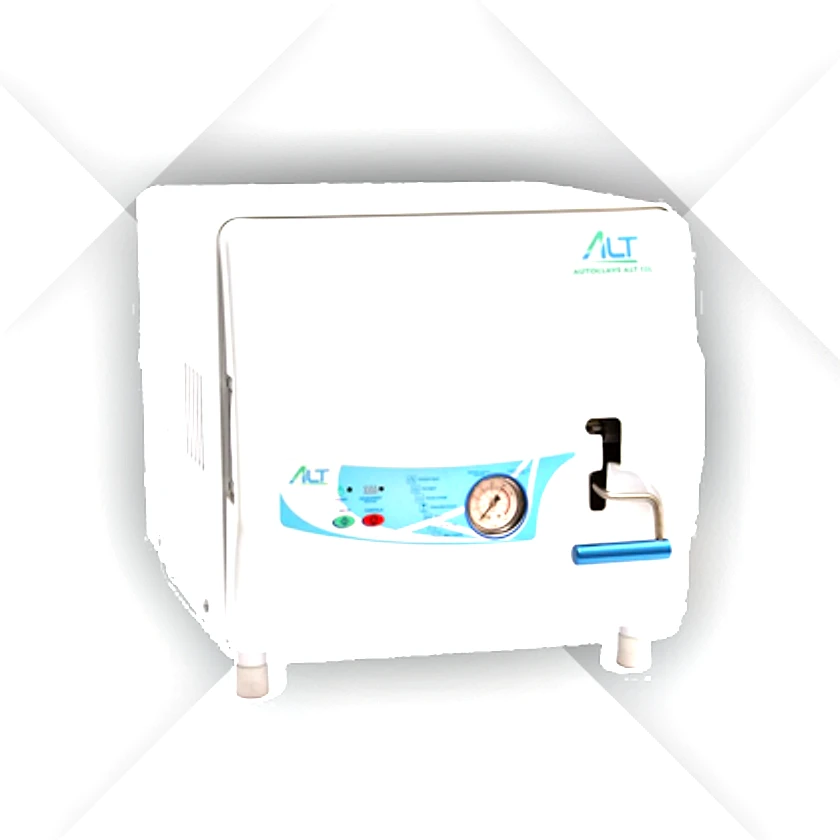
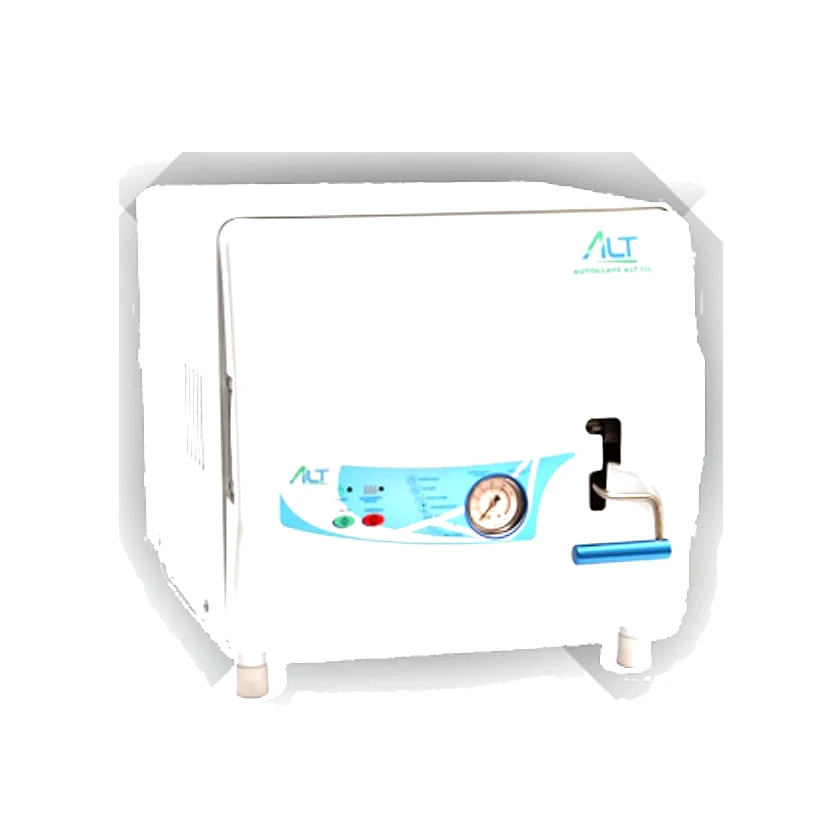
Limpa o recorte das fotos e refaz a moldura da galeria
AS FOTOS

As cinco fotos de demonstração carregavam um halo diagonal de recorte — um "X"
de cinza claro atrás do equipamento, sobra de uma remoção de fundo malfeita. No
arquivo ele quase não existe (luminância 205–253 num fundo 255), mas a moldura
o acendia: o palco tinha um degradê radial por trás, e qualquer coisa que não
fosse branco puro virava um vinco visível em volta da peça.

`scripts/limpar-fotos-demo.mjs` apaga o halo sem encostar no equipamento.
Inundar a partir da borda não serve — o corpo destes aparelhos é branco e se
liga ao fundo por pixels claros, então o preenchimento vaza para dentro da peça
e a achata (testado: vazou nas cinco). O caminho que funciona é o inverso:
marcar o traço forte (luminância < 205), engordá-lo 26px por distância de
chamfer para fechar os vãos do contorno, inundar o COMPLEMENTO a partir da
borda e branquear tudo que a inundação alcançou. Sobra a peça e a sombra de
contato colada nela.

Conferido pelo próprio otimizador do Next (`/_next/image`): o fundo volta em
254+ em toda a moldura. Os arquivos ficaram menores mesmo com qualidade 92 —
fundo limpo comprime melhor que fundo com ruído.

A MOLDURA

O palco trocou o degradê radial (branco → cinza no raio) por um degradê
vertical curto que só assenta a base. O radial existia para dar volume; na
prática ele iluminava justamente o que a foto tem de imperfeito.

E as miniaturas passaram a ficar EM PÉ, à esquerda, no desktop — a coluna do
[…]

diff --git a/src/components/loja/galeria-produto.tsx b/src/components/loja/galeria-produto.tsx
@@ -155,18 +155,28 @@ export function GaleriaProduto({
   const foto = fotos[atual];
 
   return (
-    <div>
-      <div className="relative overflow-hidden rounded-xl border border-graf-200 bg-white shadow-card">
+    /* Trilha de miniaturas à esquerda no desktop, embaixo no celular.
+
+       `flex-row-reverse` mantém o palco em PRIMEIRO no DOM — quem lê por
+       teclado ou leitor de tela chega à foto principal antes da tira de
+       miniaturas, que é uma lista de atalhos para ela. No celular a tira volta
+       para baixo, onde o polegar alcança. */
+    <div className="flex flex-col gap-4 lg:flex-row-reverse lg:items-start lg:gap-4">
+      <div className="relative min-w-0 flex-1 overflow-hidden rounded-2xl border border-graf-200 bg-white shadow-card">
         <div
           className="relative aspect-square"
           onTouchStart={aoEncostar}
           onTouchEnd={aoSoltar}
-          /* Halo discreto por trás da peça, para o recorte não flutuar num
-             branco chapado. Estilo em atributo porque é um valor único desta
-             tela — o CSP do projeto libera `style` do React de propósito. */
+          /* Fundo quase branco, com o cinza só na base.
+
+             Antes era um degradê radial de branco ao cinza-claro. A intenção
+             era dar volume, mas equipamento odontológico é fotografado
+             recortado em branco — e o campo radial acendia cada resíduo de
+             recorte da foto como um halo em volta da peça. Um degradê vertical
+             curtíssimo faz o mesmo trabalho de assentar a peça sem revelar o
+             que a foto tem de imperfeito. */
           style={{
-            background:
-              "radial-gradient(circle at 50% 38%, #ffffff 0%, var(--color-graf-100) 100%)",
+            background: "linear-gradient(180deg, #ffffff 0%, #ffffff 62%, var(--color-graf-50) 100%)",
           }}
         >
           <Image
@@ -174,10 +184,10 @@ export function GaleriaProduto({
             alt={foto.alt || nome}
             fill
             priority
-            /* No desktop a galeria ocupa 7 das 12 colunas do container de
-               1440px — cerca de 58vw. Pedir menos entregaria imagem borrada
-               justamente na peça que a pessoa está avaliando. */
-            sizes="(max-width: 1023px) 100vw, 58vw"
+            /* No desktop a galeria ocupa 7 das 12 colunas do container, menos
+               a coluna de miniaturas — cerca de 54vw. Pedir menos entregaria
+               imagem borrada justamente na peça que a pessoa está avaliando. */
+            sizes="(max-width: 1023px) 100vw, 54vw"
             /* Respiro curto de propósito: a foto é o argumento da página, e
                cada pixel de moldura sai do equipamento. */
             className="object-contain p-4 sm:p-6 lg:p-8"
@@ -233,10 +243,15 @@ export function GaleriaProduto({
       {total > 1 ? (
         <ul
           aria-label={`Imagens de ${nome}`}
-          className="scrollbar-none mt-4 flex snap-x snap-mandatory gap-2.5 overflow-x-auto pb-1"
+          className={cn(
+            "scrollbar-none flex snap-x snap-mandatory gap-2.5 overflow-x-auto pb-1",
+            "lg:w-[4.75rem] lg:shrink-0 lg:snap-none lg:flex-col lg:overflow-x-visible lg:overflow-y-auto lg:pb-0",
+            // teto na coluna para uma dúzia de fotos não esticar a página
+            "lg:max-h-[34rem]",
+          )}
         >
           {fotos.map((imagem, indice) => (
-            <li key={`${imagem.url}-${indice}`} className="shrink-0 snap-start">
+            <li key={`${imagem.url}-${indice}`} className="shrink-0 snap-start lg:w-full">
               <button
                 type="button"
                 onClick={() => setAtual(indice)}
@@ -244,6 +259,7 @@ export function GaleriaProduto({
                 aria-current={indice === atual ? "true" : undefined}
                 className={cn(
                   "foco-jb relative block size-16 overflow-hidden rounded-lg border bg-white transition-colors duration-150 sm:size-18",
+                  "lg:aspect-square lg:size-auto lg:w-full",
                   indice === atual
                     ? "border-jb-500 ring-1 ring-inset ring-jb-500"
                     : "border-graf-200 hover:border-graf-400",

diff --git a/public/images/CREDITOS.md b/public/images/CREDITOS.md
@@ -1,0 +1,36 @@
+# Origem das imagens
+
+Este arquivo existe para que ninguém precise adivinhar de onde veio uma foto —
+nem para trocá-la, nem para responder a quem perguntar.
+
+## Fotografia de ambiente
+
+| Arquivo | Origem | Licença |
+|---|---|---|
+| `hero/ambiente-clinica.webp` | Unsplash — foto `e7MJLM5VGjY`, de Benyamin Bohlouli (<https://unsplash.com/photos/e7MJLM5VGjY>) | [Unsplash License](https://unsplash.com/license) — uso comercial liberado, sem exigência de atribuição |
+
+Recorte em retrato (640×1600), dessaturada e clareada para conviver com o
+vermelho da marca. Ela aparece atrás do hero a 34% de opacidade e desfocada: é
+textura de fundo, **não** é foto da estrutura da JB. As fotos reais da empresa
+ficam em /estrutura e vêm do painel.
+
+## O que NÃO pode virar banco de imagens
+
+**Foto de produto.** A imagem de um equipamento à venda tem de ser daquele
+equipamento. Trocar a foto de uma autoclave ALT 12L pela de outra autoclave
+qualquer faz a página anunciar coisa diferente da que será entregue — e oferta
+veiculada vincula quem anuncia (CDC, art. 30 e 35). Em seminovo é pior ainda: a
+página promete "você receberá exatamente esta unidade".
+
+**Foto da estrutura da JB.** Recepção, bancada e equipe são o que são. Foto de
+banco no lugar delas é afirmação falsa sobre a empresa.
+
+Nos dois casos o caminho é a JB enviar o arquivo. Resoluções que o site
+aproveita hoje:
+
+| Onde | Mínimo | Ideal |
+|---|---|---|
+| Foto de produto (galeria da ficha) | 1600 × 1600 | 2400 × 2400 |
+| Foto de unidade seminova | 1600 × 1200 | 2400 × 1800 |
+| Logotipo de marca | 600 px de largura | vetor (SVG) ou PNG 1200 px |
+| Ilustração do rodapé / próximo passo | 2× do tamanho exibido | — |
